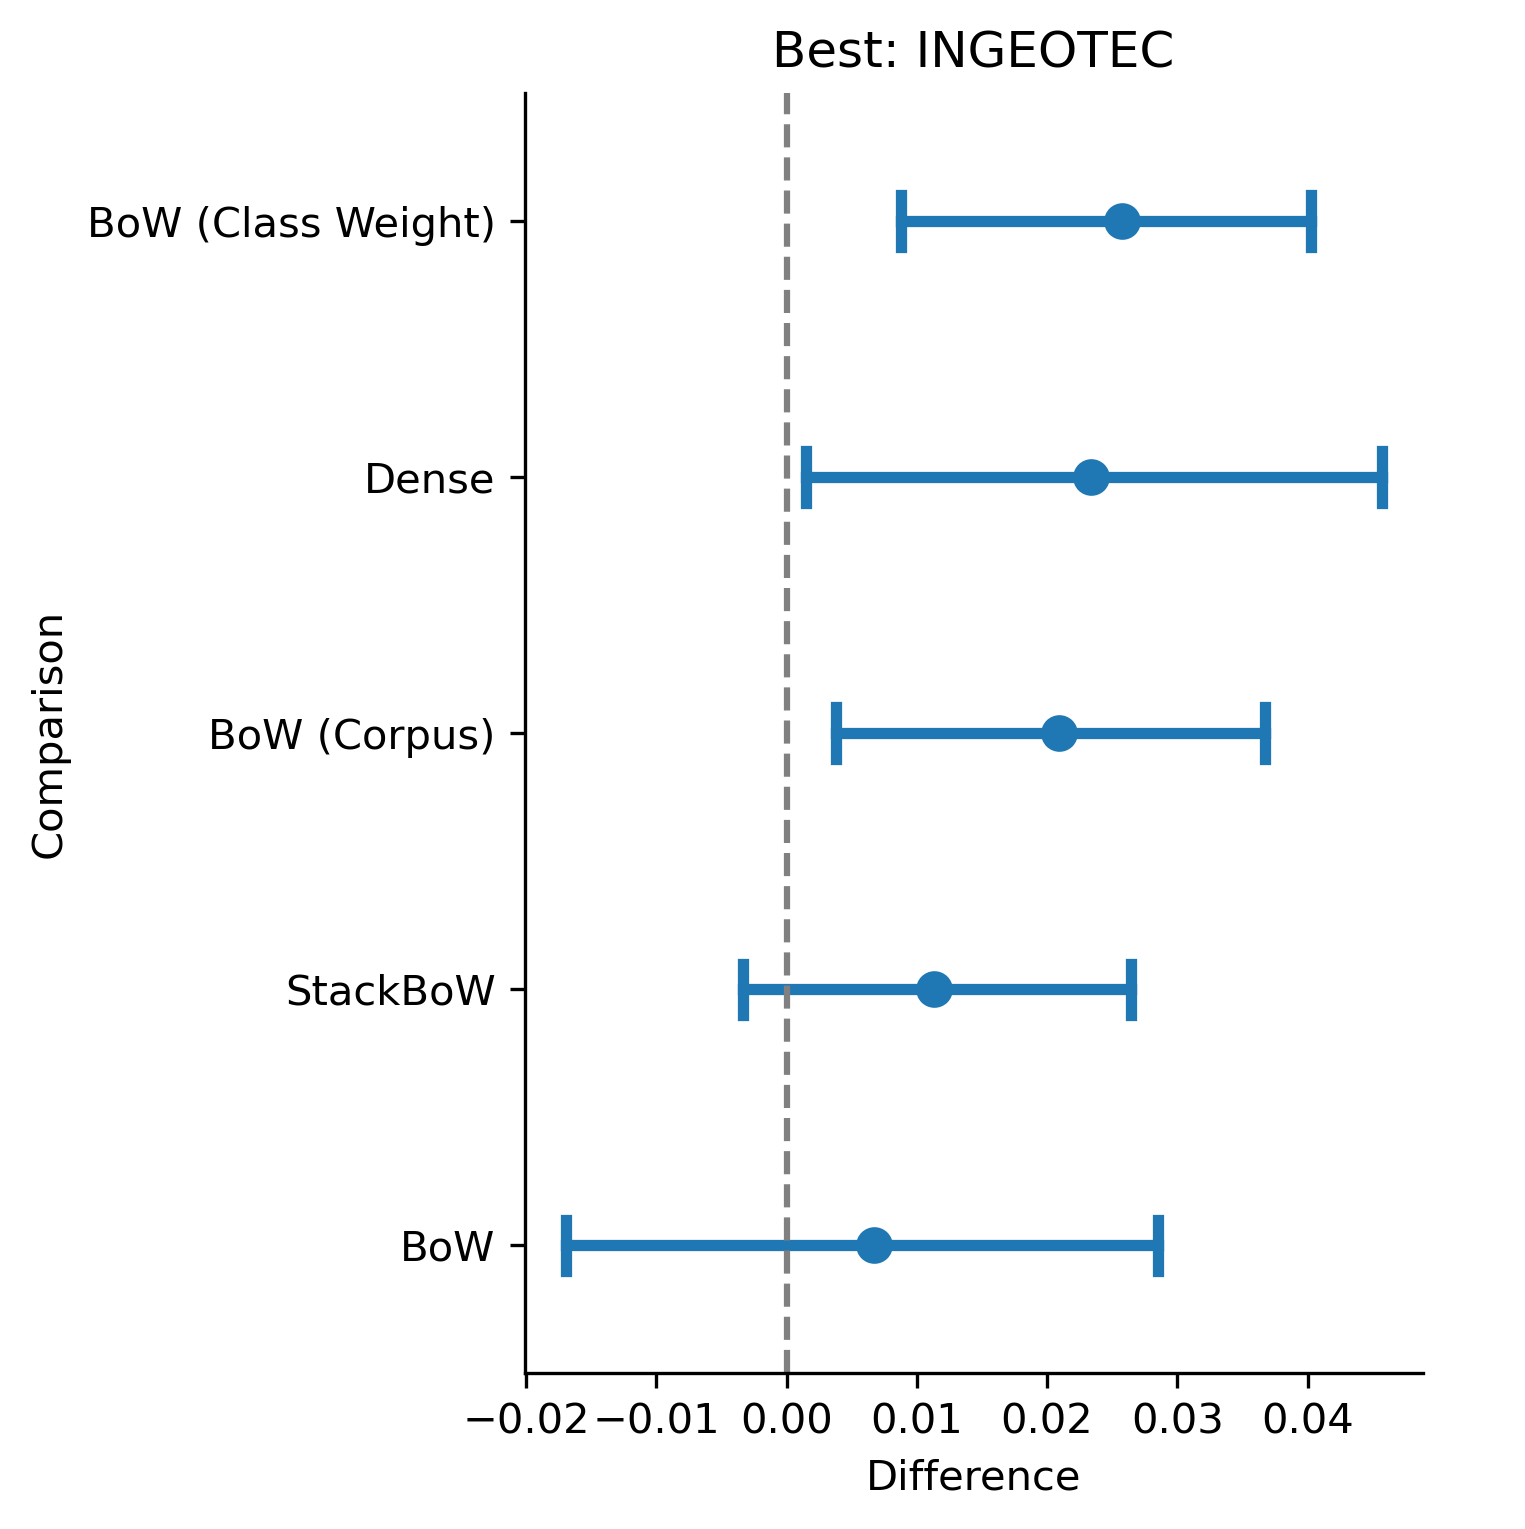
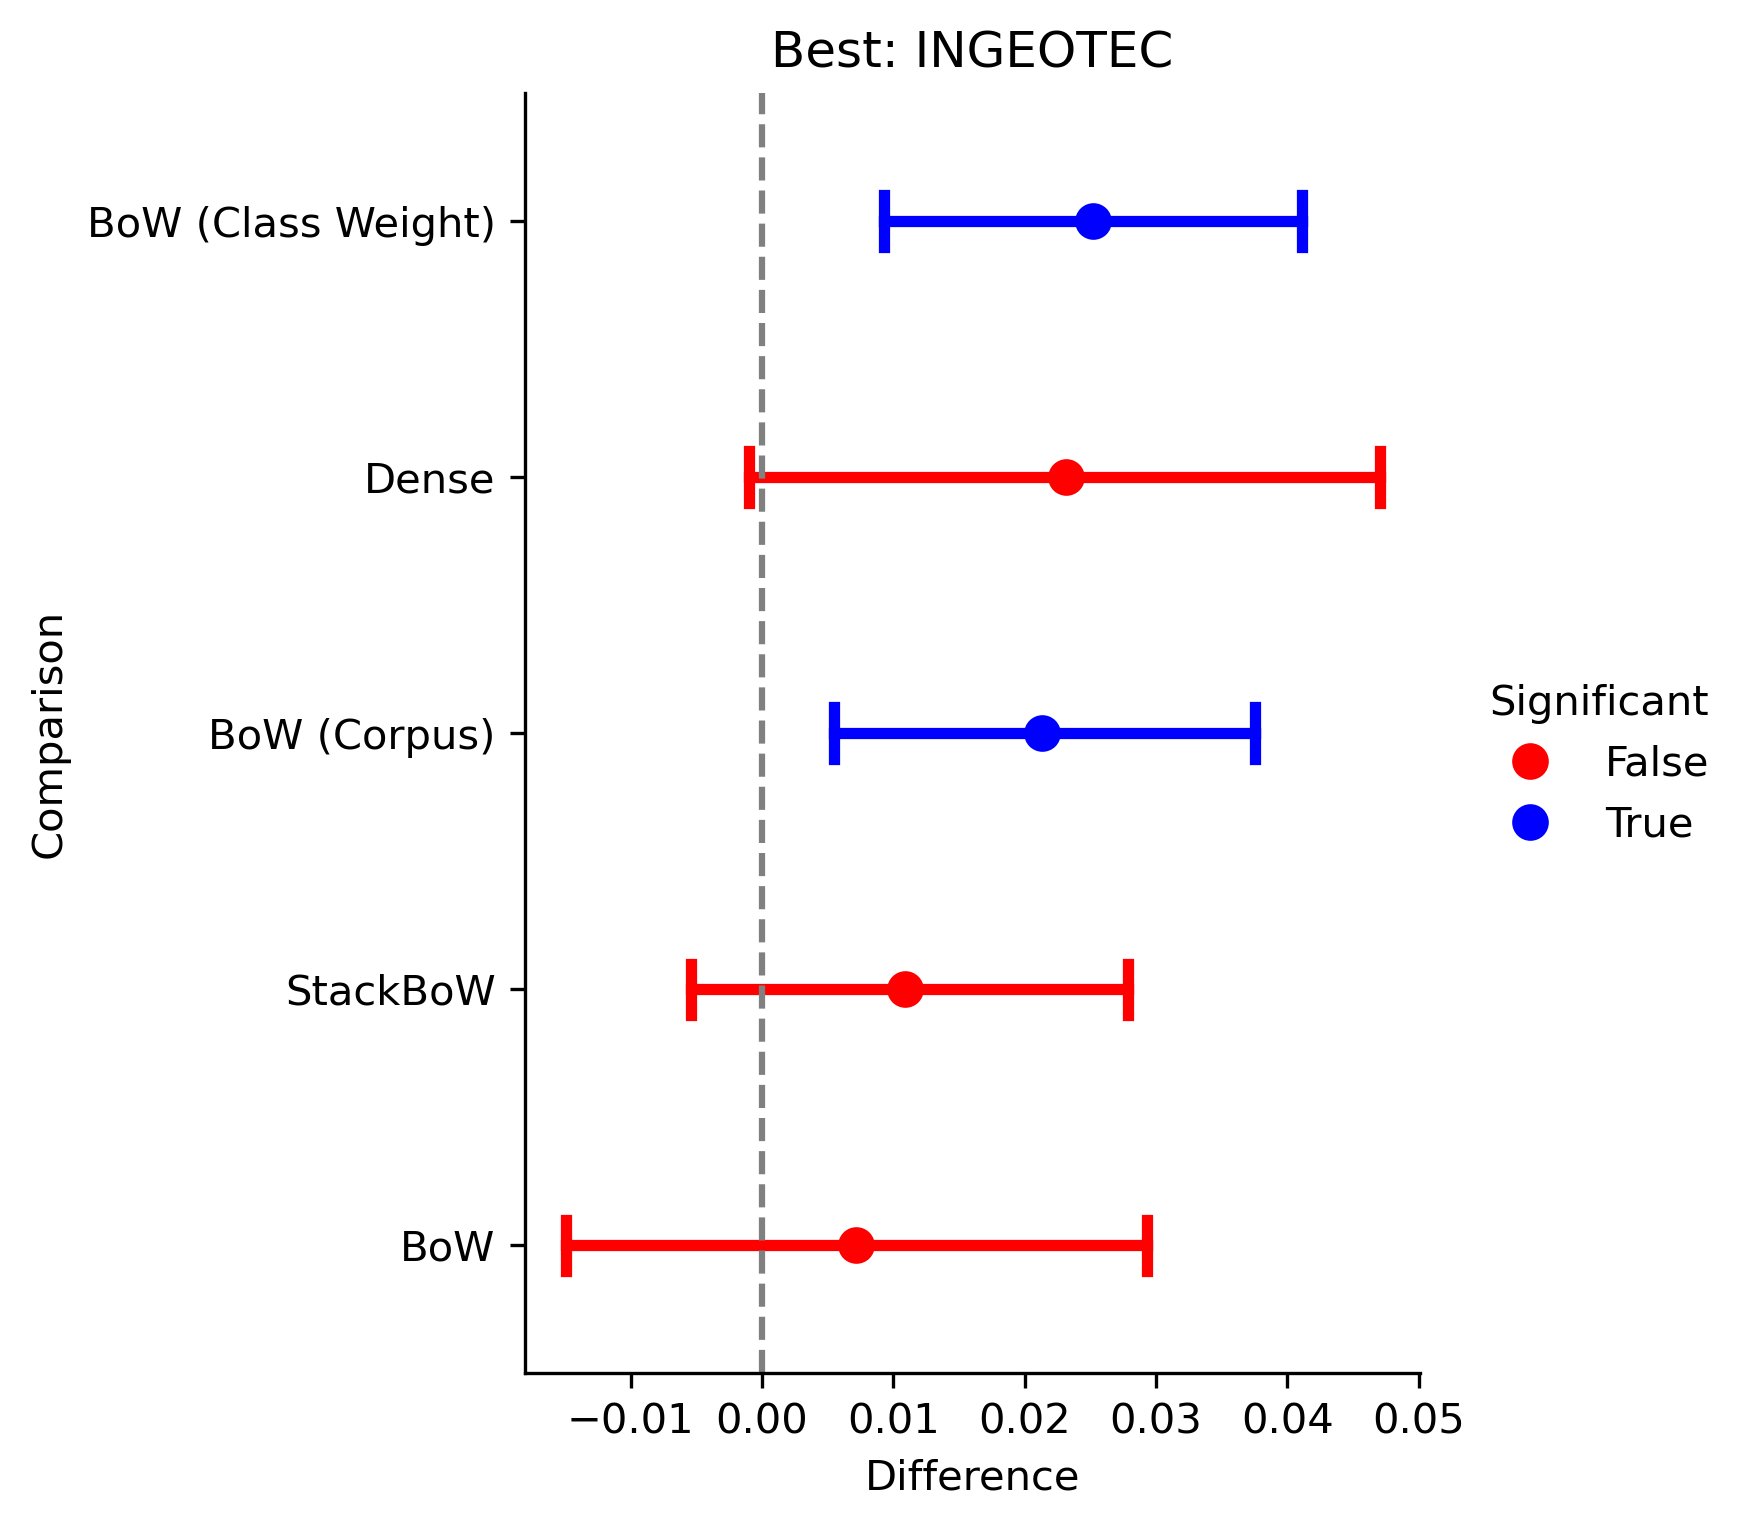
docs

diff --git a/docs/source/index.rst b/docs/source/index.rst
@@ -38,39 +38,101 @@ A more general approach to installing CompStats is through the use of the comman
 
 	  pip install CompStats
 
-
-Performance
+Libraries
 ^^^^^^^^^^^^^^^^^^^^^
+
+After installing :py:class:`CompStats`, we must import the necessary libraries for our analysis. :py:class:`CompStats` relies on several Python libraries for data analysis and scientific computing.
+
+The first line of the following code loads two functions from the :py:class:`CompStats` library. The :py:func:`~CompStats.performance.performance` function is used to calculate and analyze the performance of machine learning models. On the other hand, the :py:func:`~CompStats.performance.plot_performance` function visualizes the performance metrics calculated by :py:func:`~CompStats.performance.performance`, such as accuracy or F1 score, along with confidence intervals to help understand the variability and reliability of the performance metrics.
+
+The second line imports two functions: :py:func:`~CompStats.performance.difference` and :py:func:`~CompStats.performance.plot_difference`; :py:func:`~CompStats.performance.difference` assesses the differences in performance between models in comparison to the best system, and :py:func:`~CompStats.performance.plot_difference` visually represents these differences relative to the best system.
+
+The third line imports two functions: :py:func:`~CompStats.performance.all_differences` and :py:func:`~CompStats.measurements.difference_p_value`. :py:func:`~CompStats.performance.all_differences` evaluates the differences in performance between all models, and :py:func:`~CompStats.measurements.difference_p_value` estimates the p-value of the hypothesis that the difference is significantly greater than zero.
+
+The fourth line imports the function :py:func:`multipletests` that is used for adjusting p-values when multiple hypothesis tests are performed, to control for the false discovery rate or family-wise error rate.
+
+The rest of the lines load commonly used Python libraries.
 
 .. code-block:: python
 
     >>> from CompStats import performance, plot_performance
-    >>> from CompStats.tests.test_performance import DATA
+    >>> from CompStats import difference, plot_difference
+    >>> from CompStats import all_differences, difference_p_value
+    >>> from statsmodels.stats.multitest import multipletests
     >>> from sklearn.metrics import f1_score
     >>> import pandas as pd
-    >>> df = pd.read_csv(DATA)
-    >>> score = lambda y, hy: f1_score(y, hy, average='weighted')
-    >>> perf = performance(df, score=score)
-    >>> ins = plot_performance(perf)
 
+Dataset
+^^^^^^^^^^^^^^^^^^^^^
+
+Once we have set up our environment, we can explore what CompStats offers. Let's begin with a basic example of how to use CompStats for a simple statistical analysis.
+
+To illustrate the use of CompStats, we will use a dataset included in the CompStats package. The path of the dataset is found with the following instructions. The variable :py:attr:`DATA` contains the path as shown below.  
+
+.. code-block:: python
+
+    >>> from CompStats.tests.test_performance import DATA
+    >>> DATA
+    '/usr/local/lib/python3.10/dist-packages/CompStats/tests/data.csv'
+
+
+:py:attr:`DATA` contains the information to compare six systems for a multiclass classification task. The next instruction loads the data into a dataframe.
+
+.. code-block:: python
+
+    >>> df = pd.read_csv(DATA)
+
+The first row of :py:attr:`df` is shown below. It can be observed that the first column contains the gold standard, identified with `y`, and the rest of the columns are the predictions performed by different systems.
+
+
+Performance Analysis
+^^^^^^^^^^^^^^^^^^^^^^^^^^^^^
+
+Let us start with the performance analysis of the different systems. The performance metric used is the weighted average F1 score. This performance is coded in the variable :py:attr:`score` as observed in the next instruction.
+
+.. code-block:: python
+
+    >>> score = lambda y, hy: f1_score(y, hy, average='weighted')
+
+The next step is to compute the performance on the bootstrap samples; this is done with the function :py:func:`~CompStats.performance.performance`. The function has a few parameters; one is the :py:attr:`score`, which receives the metric used to measure the performance.
+
+.. code-block:: python
+
+    >>> perf = performance(df, score=score, num_samples=1000)
+
+:py:attr:`perf` is an instance of :py:class:`~CompStats.bootstrap.StatisticSamples`, the bootstrap samples can be seen on the property :py:attr:`calls`. The first five bootstrap samples of the performance of INGEOTEC are shown below. 
+
+.. code-block:: python
+
+    >>> perf.calls['INGEOTEC'][:5]
+    [0.37056471 0.38665852 0.36580968 0.39611708 0.39422416]
+
+The performance of the systems, along with their confidence intervals, can be seen using the next instruction.
+
+.. code-block:: python
+
+    >>> face_grid = plot_performance(perf)
 
 .. image:: performance.png
 
 
-Performance Comparison
-^^^^^^^^^^^^^^^^^^^^^^^^^^^
+It can be observed that the best system is INGEOTEC. Although the confidence intervals provide information that helps to assess the difference in the performance of the systems, in this case, the intervals intersect. Therefore, one needs another statistical tool to determine if the difference in performance is significant.
+
+Performance Comparison against the Winner
+^^^^^^^^^^^^^^^^^^^^^^^^^^^^^^^^^^^^^^^^^^^^^^^^
+
+.. code-block:: python
+    
+    >>> diff = difference(perf)
 
 .. code-block:: python
 
-    >>> from CompStats import performance, difference, plot_difference
-    >>> from CompStats.tests.test_performance import DATA
-    >>> from sklearn.metrics import f1_score
-    >>> import pandas as pd
-    >>> df = pd.read_csv(DATA)
-    >>> score = lambda y, hy: f1_score(y, hy, average='weighted')
-    >>> perf = performance(df, score=score)
-    >>> diff = difference(perf)
-    >>> ins = plot_difference(diff)
+    >>> diff.info
+    {'best': 'INGEOTEC'}
+
+.. code-block:: python
+
+    >>> face_grid_diff = plot_difference(diff)
 
 .. image:: difference.png
 
@@ -110,3 +172,13 @@ If you find CompStats useful for any academic/scientific purpose, we would appre
     keywords = {Bootstrap, Challenges, Performance}
     }
 
+
+API
+====================================
+
+.. toctree::
+   :maxdepth: 1
+
+   performance_api
+   measurements_api
+   bootstrap_api

diff --git a/docs/source/measurements_api.rst b/docs/source/measurements_api.rst
@@ -1,0 +1,5 @@
+:mod:`CompStats.measurements`
+==================================
+
+.. automodule:: CompStats.measurements
+   :members:

diff --git a/docs/source/performance_api.rst b/docs/source/performance_api.rst
@@ -1,0 +1,5 @@
+:mod:`CompStats.performance`
+==================================
+
+.. automodule:: CompStats.performance
+   :members:

diff --git a/docs/source/bootstrap_api.rst b/docs/source/bootstrap_api.rst
@@ -1,0 +1,5 @@
+:mod:`CompStats.bootstrap`
+==================================
+
+.. automodule:: CompStats.bootstrap
+   :members:
